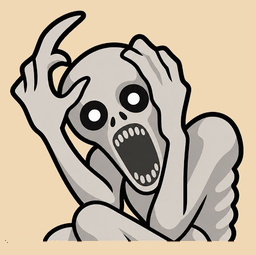
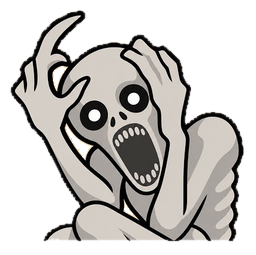
pol-q1: SCP shyguy/reptile/mask sprites: video square background keyed out (no opaque box on the board)

diff --git a/rebuild/app/tools/polq1/key_square.py b/rebuild/app/tools/polq1/key_square.py
@@ -1,0 +1,31 @@
+#!/usr/bin/env python3
+"""pol-q1: key out the video's square colour behind a cut sprite (flood fill from the border), so the
+piece sits on whatever square it stands on. usage: key_square.py file.png [tol]"""
+import sys
+from PIL import Image, ImageFilter
+from collections import deque
+p = sys.argv[1]; tol = int(sys.argv[2]) if len(sys.argv) > 2 else 26
+im = Image.open(p).convert('RGBA'); W, H = im.size; px = im.load()
+bg = px[2, 2][:3]
+def near(c, t): return sum(abs(a - b) for a, b in zip(c[:3], bg)) <= t
+seen = bytearray(W * H); q = deque()
+for x in range(W):
+    q.append((x, 0)); q.append((x, H - 1))
+for y in range(H):
+    q.append((0, y)); q.append((W - 1, y))
+mask = Image.new('L', (W, H), 255); mp = mask.load()
+while q:
+    x, y = q.popleft()
+    if x < 0 or y < 0 or x >= W or y >= H or seen[y * W + x]: continue
+    seen[y * W + x] = 1
+    c = px[x, y]
+    if c[3] == 0 or near(c, tol):
+        mp[x, y] = 0
+        q.extend(((x + 1, y), (x - 1, y), (x, y + 1), (x, y - 1)))
+# soft 1px edge: pixels next to the keyed area that are still close to bg become half transparent
+mask = mask.filter(ImageFilter.MinFilter(3)).filter(ImageFilter.GaussianBlur(0.7))
+out = im.copy(); a = out.getchannel('A')
+from PIL import ImageChops
+out.putalpha(ImageChops.multiply(a, mask))
+out.save(p, optimize=True)
+print(p, 'keyed', sum(1 for v in mask.getdata() if v < 128), 'px of', W * H)

diff --git a/rebuild/research/polish_report.md b/rebuild/research/polish_report.md
@@ -37,3 +37,8 @@ RESUME: step 1 = engine layer committed (Maia JS net + SF versions + pins); next
 - js/bot/stockfish.js: versions 19 (default), 17 (stockfish@17.1.0, nearest real build of SF 17), 10 (stockfish@10.0.2).
 - js/bot/bot.js: CM.bot.engineFor picks maia / stockfish(version) / search; fallbacks Maia -> SF -> CM.Search.
 - data/bot_engines.js pins: -cQ58zhZrSo + vEk6QGmqLdA -> SF 17(.1), COBnLrfJVpE -> SF 10.
+## pol-q1
+Ids -TKJGtBKK8U .. GGvpHVEgqwY (125). Per id: QA 390/360 (port 8831), art polish from 390 shots, gameplay vs spec (medium first).
+RESUME: last id finished = (QA sweep running; art pass started at -TKJGtBKK8U)
+- SCP neutral tiles: -fax07t_o5s shyguy, 06OeGk5Iu-s reptile, 4XV3SBMQgXE mask had the video's light square baked in as an opaque box
+  (wrong tone on the app board, a beige box on dark squares). Keyed out from the border (tools/polq1/key_square.py) + shyguy inner pockets.
